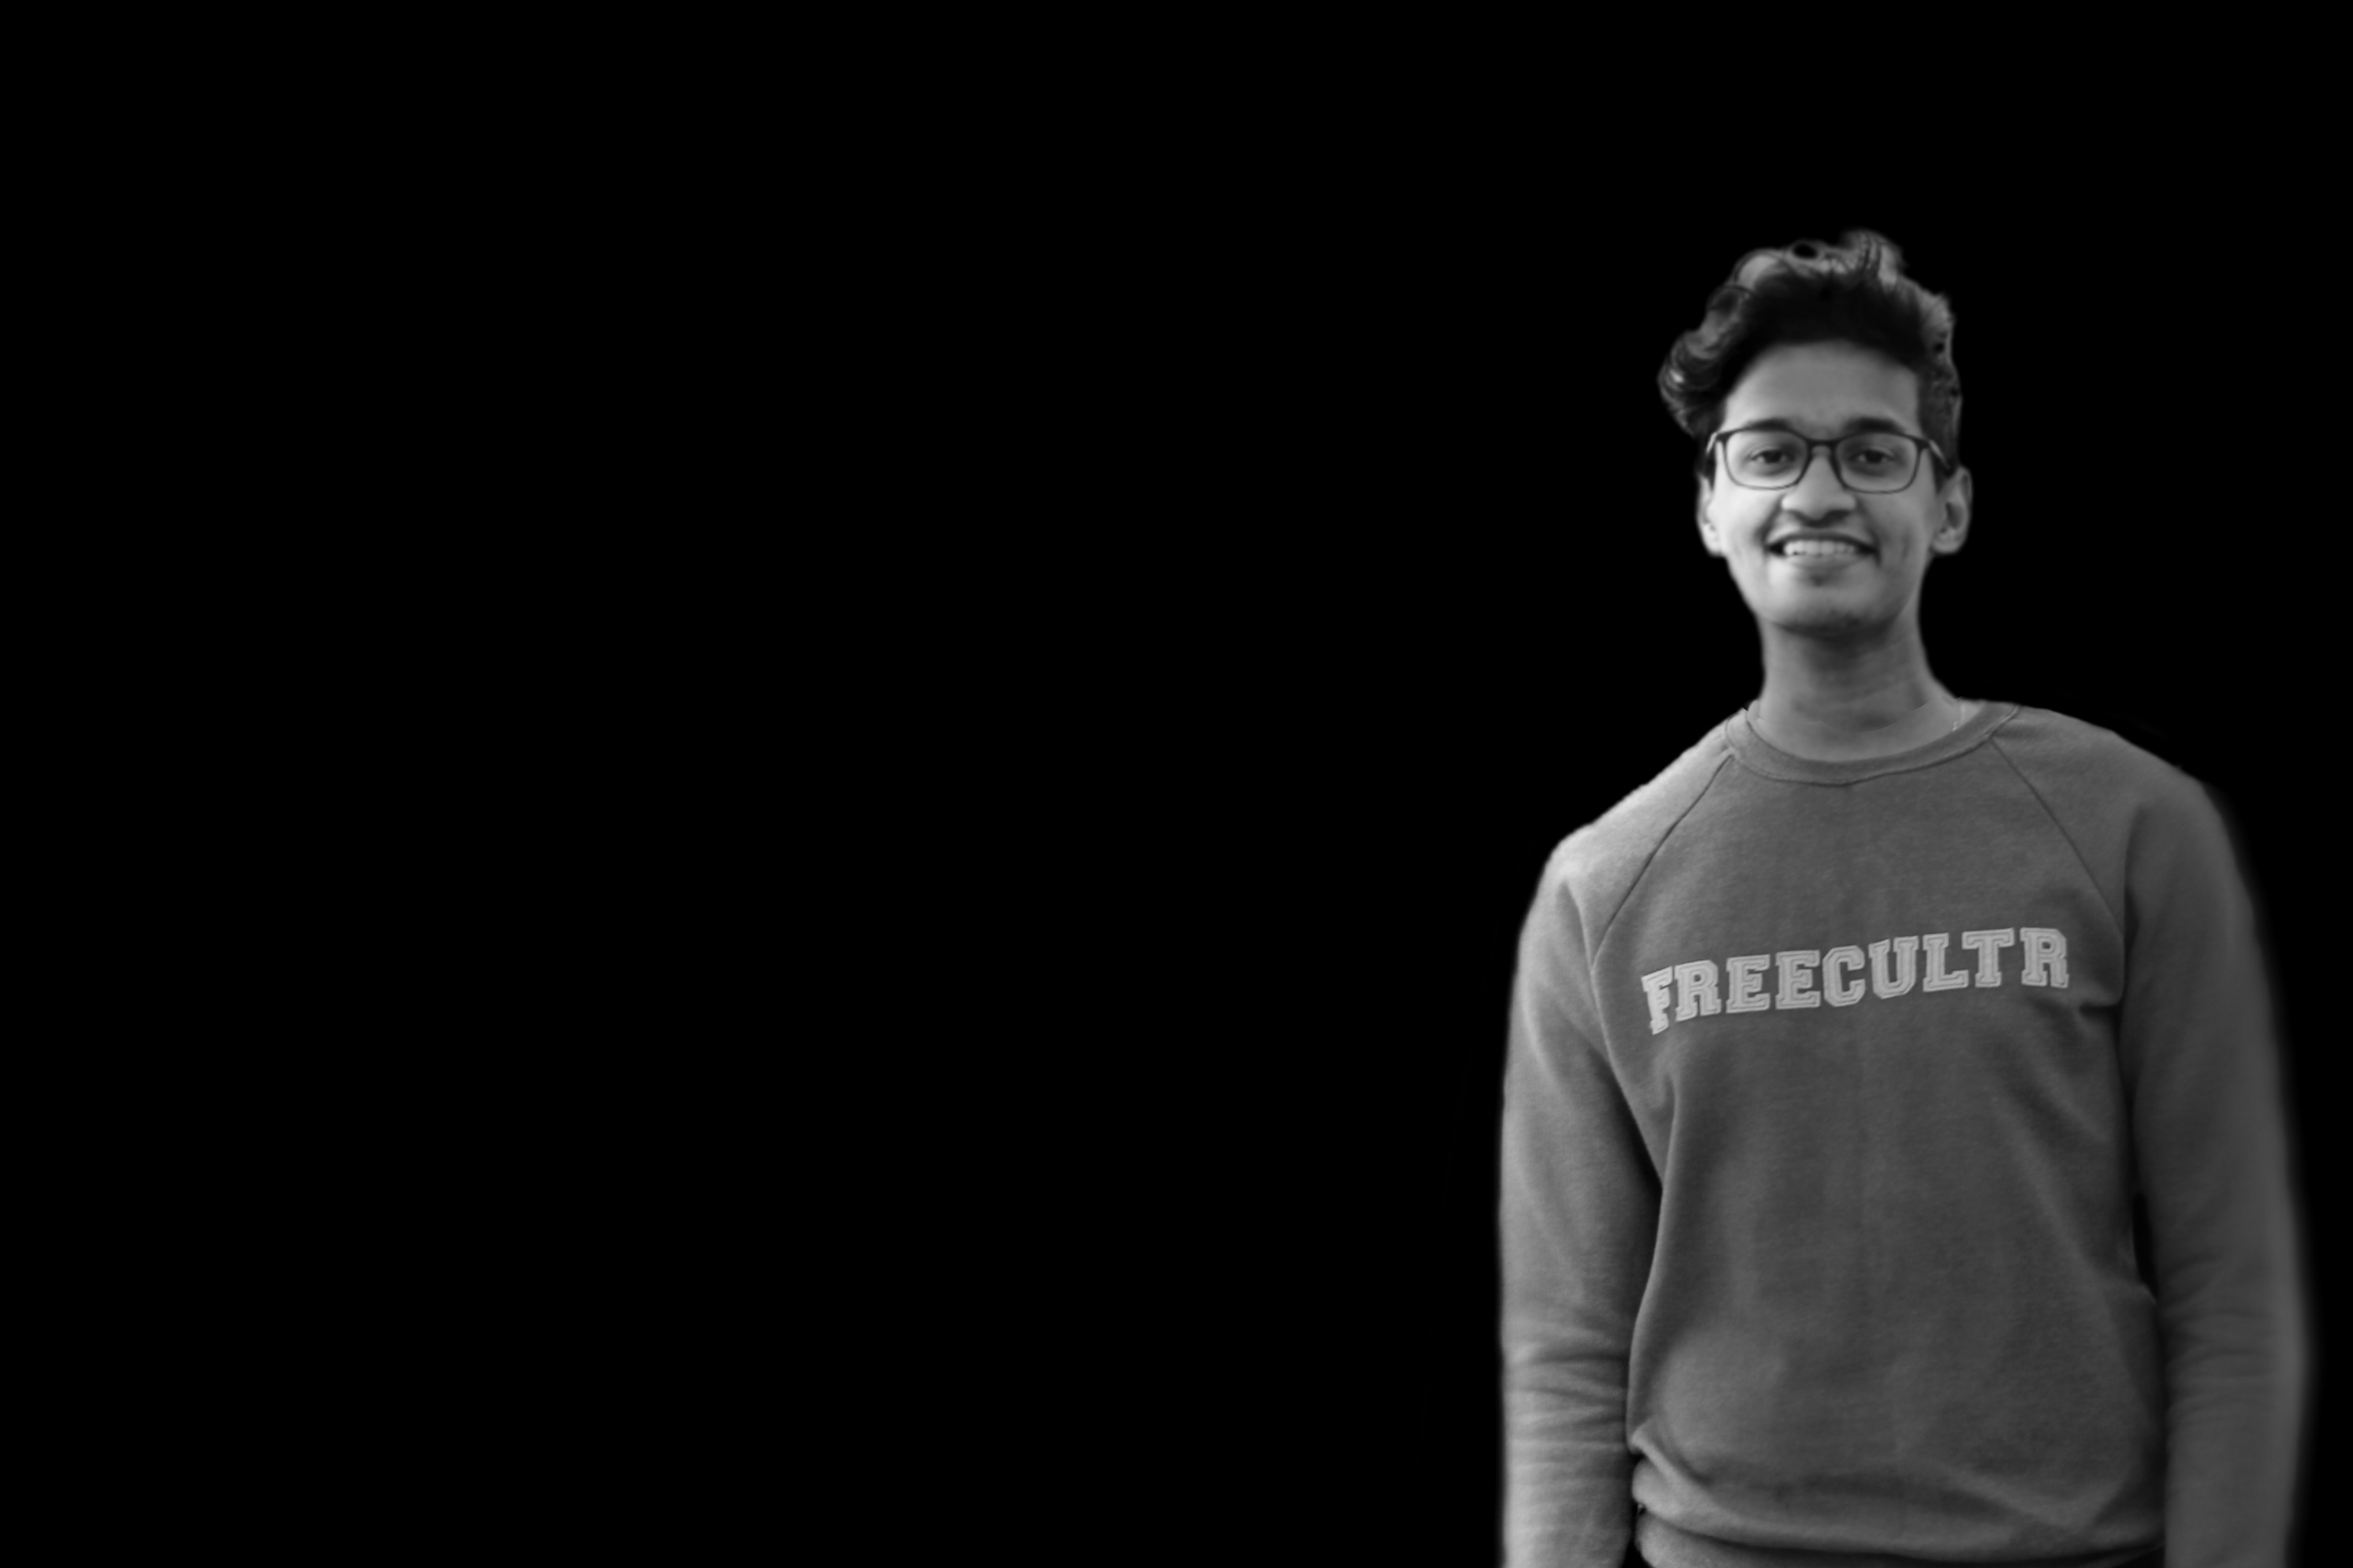
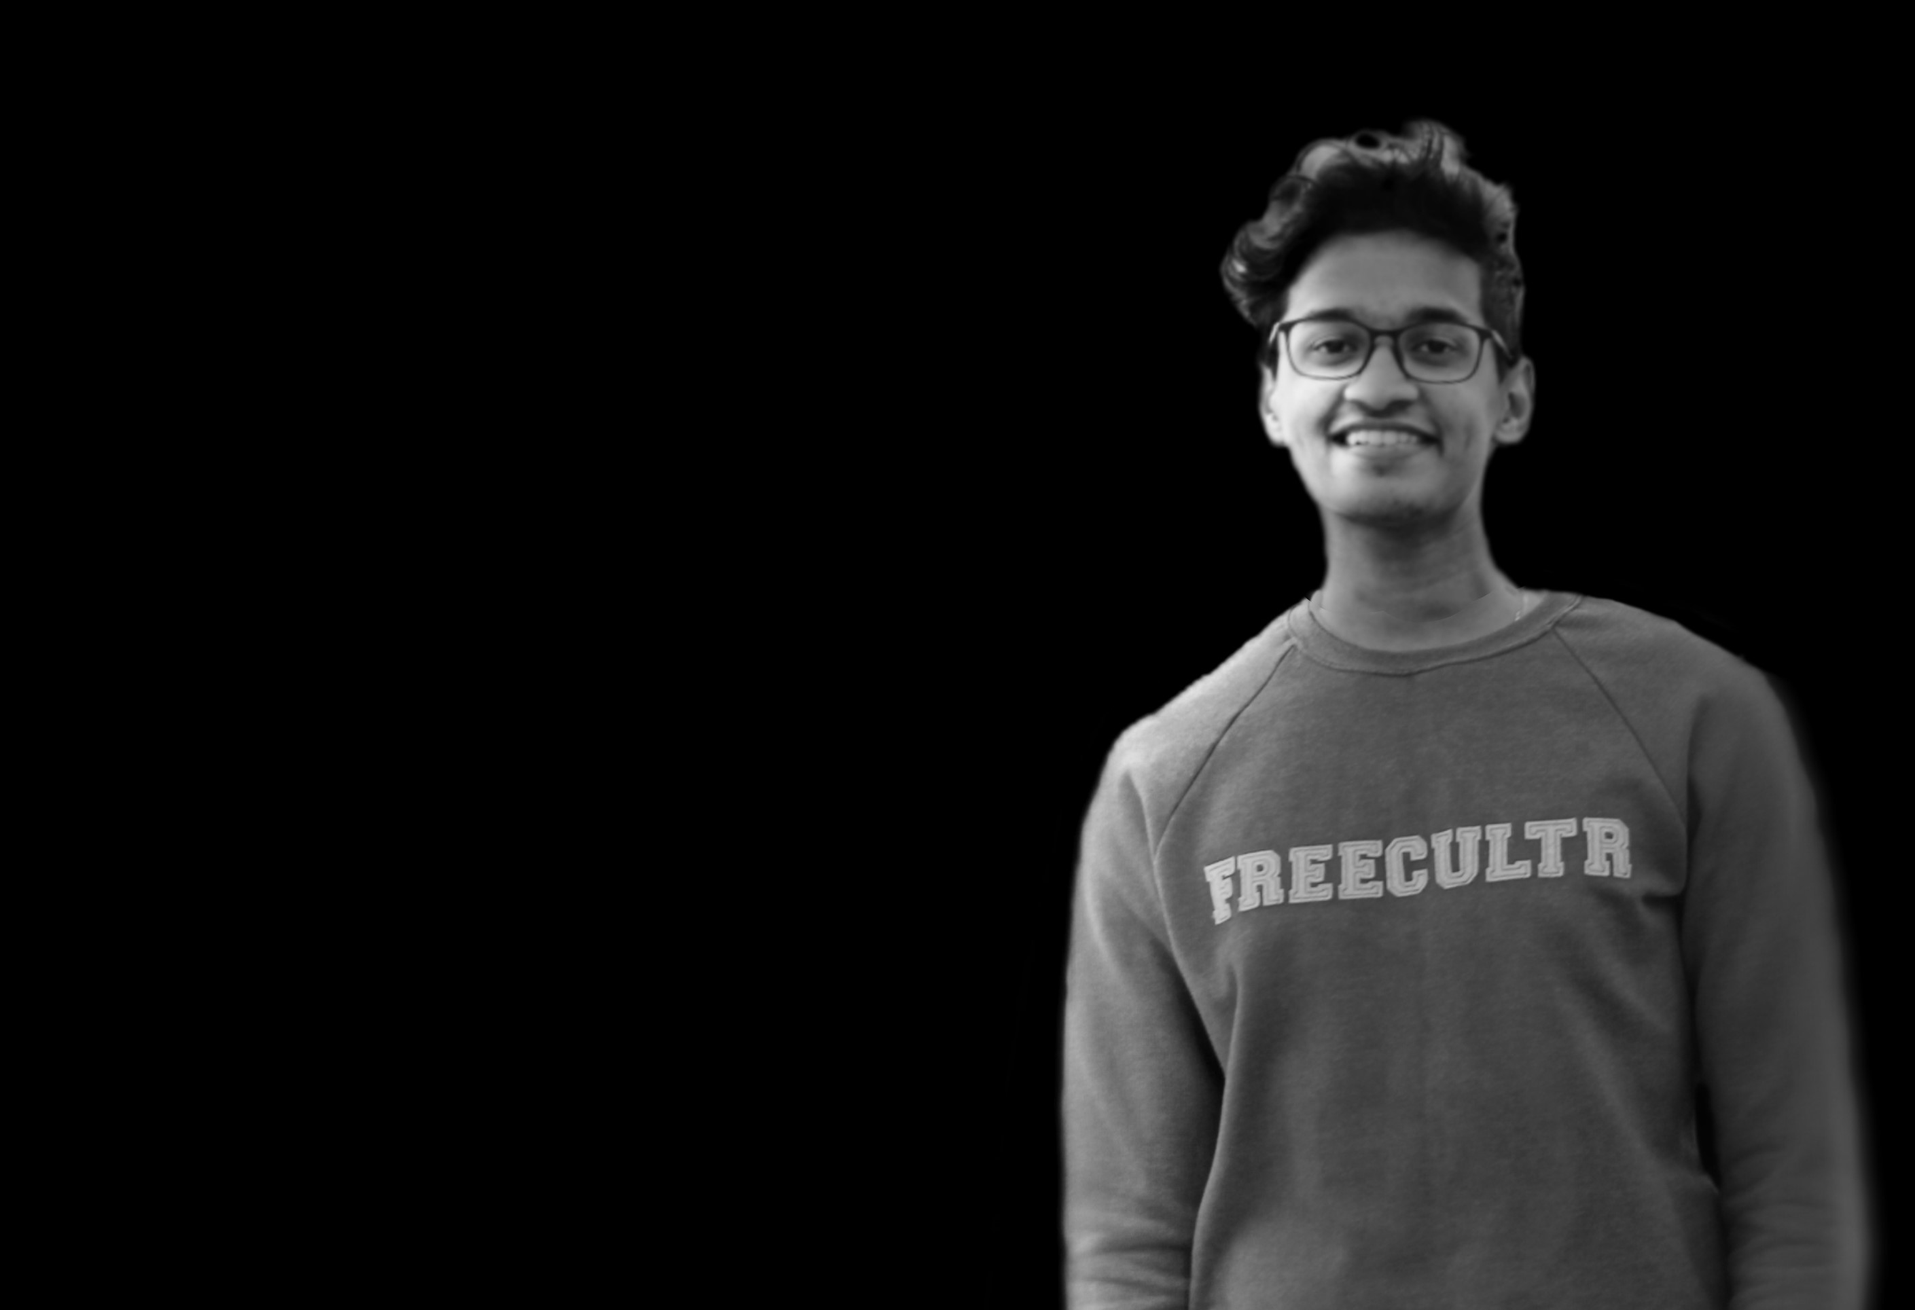
bg img chnge

Changed region(s): [[0.5307, 0.0933, 0.9989, 1.0]]

diff --git a/assets/css/style.css b/assets/css/style.css
@@ -19,7 +19,7 @@ body {
 body::before {
   content: "";
   position: fixed;
-  background: #040404 url("../img/bg2ii.jpg") top right no-repeat;
+  background: #040404 url("../img/bg2.jpg") top right no-repeat;
   background-size: cover;
   left: 0;
   right: 0;
